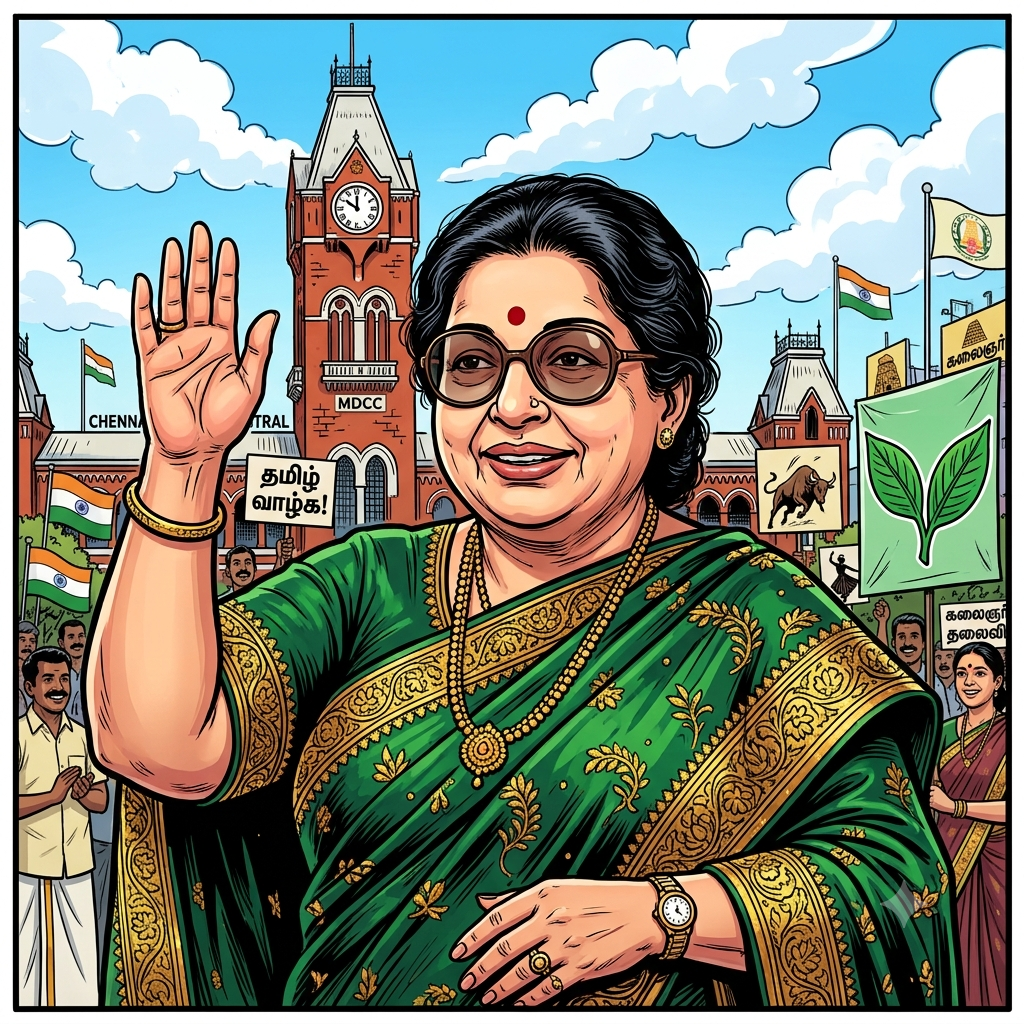
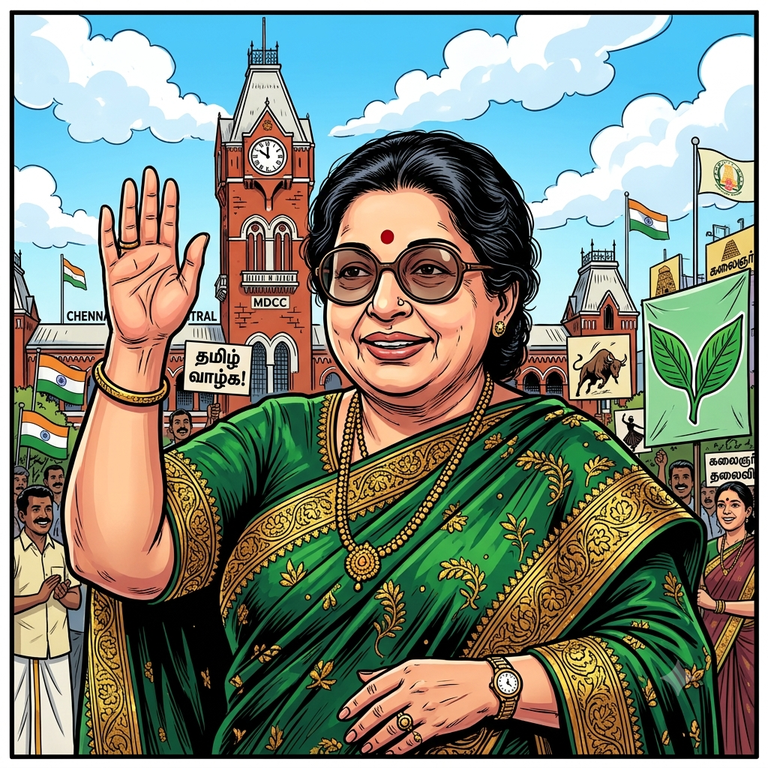
v2.0.1: shrink oversized portrait art, lazy-load carousel images
The 21 politician portraits were 2048x2048 / 1.5-8 MB PNGs (~75 MB total),
all fetched and decoded at once when the select carousel builds. That blows
past iOS Safari's per-tab image-decode memory cap, so most render blank —
reported as "images missing" though every file returns HTTP 200.

- scripts/shrink-images.py: downscale portraits to 768 px, welcome bg to
  1280 px, re-optimized, same filenames. ~75 MB -> ~20 MB, decoded RAM now
  well under Safari's cap.
- main.js: carousel portraits load="lazy" so only near-viewport cards
  fetch; welcome loading gate now waits on the first 3 portraits + a 3.5s
  timeout instead of 80% of all 21 (unreachable with lazy loading).
- sw.js cache v5 -> v6 to evict the old large images from installed PWAs.

Claude-Session: https://claude.ai/code/session_0126pxrAxNRi9yhisce16534

diff --git a/mobile/main.js b/mobile/main.js
@@ -3,7 +3,7 @@
 (function () {
   'use strict';
   var E = window.PMEEngine, G = window.PMEGame;
-  var GAME_VERSION = '2.0.0';
+  var GAME_VERSION = '2.0.1';
   ['welcomeVersion', 'stageVersion', 'endVersion'].forEach(function (id) {
     var el = document.getElementById(id);
     if (el) el.textContent = 'v' + GAME_VERSION;
@@ -50,10 +50,6 @@
   // politician as your AI opponent so unlocking the roster doesn't stall
   // out on luck once you're down to a few remaining locked names.
   var LOCKED_OPPONENT_CHANCE = 0.70;
-  // Fraction of politician portraits the welcome-screen loading bar waits
-  // for before letting the player in — "most", not all, so one slow
-  // straggler image doesn't hold the whole app hostage.
-  var PORTRAIT_READY_FRACTION = 0.8;
   var STARTER_POLITICIAN_IDS = ['narendra-modi', 'manmohan-singh', 'atal-bihari-vajpayee'];
   // Returns the unlocked-id array, or null if storage is unavailable/broken
   // (private browsing, quota, etc.) — null means "treat everyone as
@@ -176,7 +172,7 @@
 
   // Sets a politician portrait <img>, falling back to a colored initial
   // circle (same className, so existing CSS sizing still applies) if the
-  // image file doesn't exist — 11 of 20 portraits don't yet (see CLAUDE.md).
+  // image fails to load.
   function setPortrait(imgEl, p) {
     imgEl.alt = p.name;
     imgEl.style.background = p.primaryColor || '#ccc';
@@ -1036,6 +1032,9 @@
   // the ballot card's photo window, where a small circular avatar wouldn't.
   function setArtPortrait(imgEl, p) {
     imgEl.alt = p.name;
+    // Carousel holds all ~21 cards in one scroll track — only fetch a
+    // portrait once its card is near the viewport.
+    imgEl.loading = 'lazy';
     imgEl.src = '../' + p.image;
     imgEl.onerror = function () {
       var fallback = document.createElement('div');
@@ -2418,15 +2417,16 @@
     data = d;
     renderPolGrid();
     // The JSON resolving only means the carousel DOM exists — renderPolGrid
-    // just kicked off all ~21 portrait <img> fetches, each still in flight.
-    // Wait for most of them (not just the first) to settle before calling
-    // it "loaded", so scrolling the carousel right after Begin Campaign
-    // doesn't run into cards still visibly filling in.
+    // just kicked off the on-screen portrait <img> fetches (the rest are
+    // loading="lazy" and won't fetch until scrolled to). Wait for the first
+    // few to settle so the opening cards aren't visibly filling in, with a
+    // hard timeout so one slow straggler can't hold the app hostage.
     var portraitImgs = Array.prototype.slice.call($('polCarousel').querySelectorAll('.pol-art img'));
-    var neededCount = Math.ceil(portraitImgs.length * PORTRAIT_READY_FRACTION);
+    var neededCount = Math.min(3, portraitImgs.length);
     var settledCount = 0;
     var portraitReady = new Promise(function (resolve) {
       if (!portraitImgs.length) { resolve(); return; }
+      setTimeout(resolve, 3500);
       var maybeResolve = function () { if (++settledCount >= neededCount) resolve(); };
       portraitImgs.forEach(function (img) {
         if (img.complete) maybeResolve();

diff --git a/mobile/sw.js b/mobile/sw.js
@@ -1,7 +1,7 @@
 // PME Mobile — minimal cache-first service worker for offline/installable
 // play. Precaches the app shell; everything else (data/*.json, sounds/*,
 // images) is cached opportunistically the first time it's fetched.
-var CACHE = 'pme-mobile-v5';
+var CACHE = 'pme-mobile-v6';
 var CORE = [
   './index.html', './engine.js', './game.js', './main.js', './html2canvas.min.js', './manifest.json',
   './data/states_data.json', './data/policy-tags.json', './data/politicians-data.json', './data/game-config.json'

diff --git a/scripts/shrink-images.py b/scripts/shrink-images.py
@@ -1,0 +1,37 @@
+"""Downscale the oversized politician art in assets/images/.
+
+The source PNGs are 2048x2048 / 1.5-8 MB each; the app never shows them
+larger than ~400 px. Loading + decoding all ~21 at once on a phone blows
+iOS Safari's per-tab image-memory cap, so most render blank. This shrinks
+portraits to 768 px and the welcome background to 1280 px, re-optimized,
+with the same filenames (no data/code references change).
+
+Run from the repo root:  python scripts/shrink-images.py
+
+Idempotent-ish: re-running just re-encodes the already-small files.
+Originals are recoverable via git.
+
+Requires Pillow (`pip install pillow`).
+"""
+import glob
+import os
+
+from PIL import Image
+
+IMAGES_DIR = os.path.join(os.path.dirname(__file__), "..", "assets", "images")
+BG_NAME = "PradhanMantriBg.png"
+
+tot_old = tot_new = 0
+for path in sorted(glob.glob(os.path.join(IMAGES_DIR, "*.png"))):
+    name = os.path.basename(path)
+    cap = 1280 if name == BG_NAME else 768
+    old = os.path.getsize(path)
+    im = Image.open(path).convert("RGB")
+    im.thumbnail((cap, cap), Image.LANCZOS)
+    im.save(path, "PNG", optimize=True)
+    new = os.path.getsize(path)
+    tot_old += old
+    tot_new += new
+    print(f"{name:30} {str(im.size):12} {old // 1024:>6}K -> {new // 1024:>5}K")
+
+print(f"\nTOTAL  {tot_old / 1048576:.1f} MB -> {tot_new / 1048576:.1f} MB")
